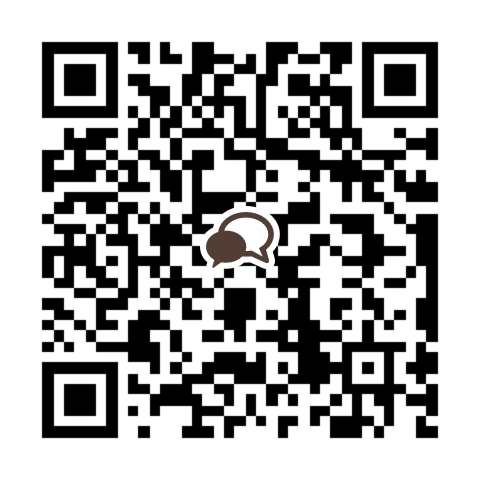
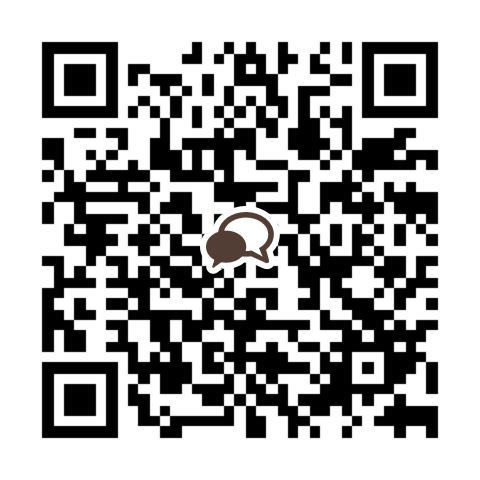
고객센터 채팅방 재설정 #291

diff --git a/devbox_client/src/pages/contact/Contact.jsx b/devbox_client/src/pages/contact/Contact.jsx
@@ -43,8 +43,8 @@ const Contact = () => {
                 <li className="h5 mb-0">DevBox 고객센터</li>
                 <li className="contact-muted">오픈카톡</li>
                 <li className="contact-muted">
-                  <Link to="https://open.kakao.com/o/sxzajjTg" target="_blank">
-                    https://open.kakao.com/o/sxzajjTg
+                  <Link to="https://open.kakao.com/o/smHmDjTg" target="_blank">
+                  https://open.kakao.com/
                   </Link>
                 </li>
               </ul>
